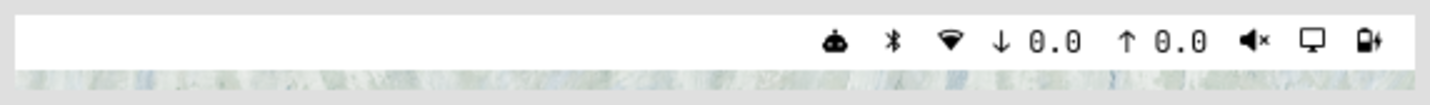
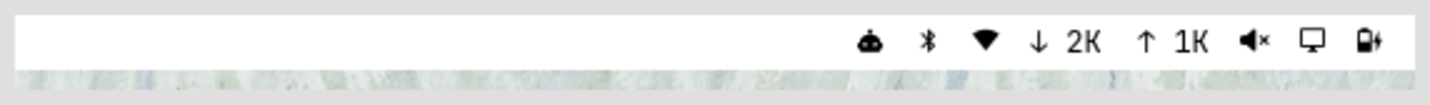
netspeed: adaptive KB/s ↔ MB/s units
%.1f MB/s rounded everyday traffic (an API client, a package sync) to 0.0.
fmt() now picks the unit per direction: 0 below 1 KiB/s, <n>K below 1 MiB/s,
<n.n>M above. Refresh screenshots and docs to match.

Changed region(s): [[0.5538, 0.2571, 0.8615, 0.5143]]

diff --git a/netspeed/README.md b/netspeed/README.md
@@ -1,12 +1,16 @@
 # netspeed
 
-Live network throughput in the **Omarchy bar**: download and upload rate in
-**MB/s**, a down arrow for in, an up arrow for out. **No daemon**, no polling
-service — just a shell script the bar already knows how to call.
+Live network throughput in the **Omarchy bar**: download and upload rate with a
+down arrow for in, an up arrow for out. The **unit adapts** — `KB/s` for
+everyday traffic, `MB/s` once a transfer really gets going — so a slow download
+never just reads `0.0`. **No daemon**, no polling service — just a shell script
+the bar already knows how to call.
 
 <img src="screenshots/idle.png" alt="netspeed widget in the Omarchy bar, idle" width="100%">
 
-<img src="screenshots/load.png" alt="netspeed widget in the Omarchy bar, during a download" width="100%">
+<img src="screenshots/slow.png" alt="netspeed widget in the Omarchy bar, light traffic in KB/s" width="100%">
+
+<img src="screenshots/load.png" alt="netspeed widget in the Omarchy bar, during a download in MB/s" width="100%">
 
 The stock `omarchy.network` widget only shows a Wi-Fi/Ethernet icon; the live
 rates it computes exist solely inside its pop-up, and only while that pop-up is
@@ -19,7 +23,9 @@ open. `netspeed` puts the rate in the bar itself, all the time.
 - Computes the rate against the **previous sample**, over the real elapsed
   time (a state file under `$XDG_RUNTIME_DIR`), so it stays accurate even if
   the bar's poll interval drifts.
-- Prints Waybar-style JSON: `{"text": "↓ 1.2  ↑ 0.1", "tooltip": "wlo1   ↓ 1.20 MB/s   ↑ 0.05 MB/s"}`.
+- Picks the unit per direction: `0` below 1 KiB/s, `<n>K` (KB/s) below 1 MiB/s,
+  `<n.n>M` (MB/s) above.
+- Prints Waybar-style JSON: `{"text": "↓ 320K  ↑ 12K", "tooltip": "wlo1   ↓ 320K   ↑ 12K"}`.
 - Offline (no default route): shows `↓ -- ↑ --`.
 - Click the widget → opens the Omarchy network status.
 
@@ -71,9 +77,10 @@ as Waybar JSON, and renders `text` (plus `tooltip`). The entry in `shell.json`:
 }
 ```
 
-Rate math (see `bin/netspeed`): `rate = max(0, (bytes_now - bytes_prev) / dt)`,
-then `/ 1048576` for MB/s. The `max(0, …)` absorbs a counter reset or an
-interface switch; the first sample after either shows `0.0` for one tick.
+Rate math (see `bin/netspeed`): `rate = max(0, (bytes_now - bytes_prev) / dt)`
+bytes/s, then formatted by the `fmt()` awk function (KiB / MiB / GiB
+thresholds). The `max(0, …)` absorbs a counter reset or an interface switch;
+the first sample after either shows `0` for one tick.
 
 ## Configuration
 
@@ -83,8 +90,9 @@ All knobs are one-line edits; the bar reloads on save.
 | --- | --- | --- |
 | Faster/slower updates | `shell.json` entry | `"interval": 1` (min 1s) |
 | Different arrows | `bin/netspeed` | swap `↓` / `↑` for Nerd Font `` / `` (the glyphs the network pop-up uses) |
-| Decimal MB (10⁶) instead of MiB (2²⁰) | `bin/netspeed` | set `mib = 1000000.0` |
-| More/less precision | `bin/netspeed` | `%.1f` in `text`, `%.2f` in `tooltip` |
+| Always MB/s (no KB/s) | `bin/netspeed` | in `fmt()`, drop the `< 1048576` branch and use `%.2f` |
+| Decimal K/M/G (10ⁿ) instead of binary (2ⁿ) | `bin/netspeed` | in `fmt()`, use `1000`, `1000000`, `1000000000` |
+| More/less precision | `bin/netspeed` | change the `%.0f` / `%.1f` in `fmt()` |
 | Move it in the bar | `shell.json` | reorder the entry, or `omarchy bar move netspeed --section right` |
 
 After editing `bin/netspeed`, re-run the installer (or copy it over
@@ -109,12 +117,15 @@ script and the state file.
 
 ## Notes and limitations
 
-- **MB = MiB.** Rates divide by `1048576`, matching Omarchy's own
-  `network/Model.js`. Switch to `1000000` if you prefer decimal megabytes.
+- **K/M/G are binary** (1024-based), matching Omarchy's own `network/Model.js`.
+  `K` is shown without decimals, `M`/`G` with one.
+- **2 s trailing average.** The bar polls every `interval` seconds and shows the
+  mean over that window, so bursty traffic (a package sync, an API client)
+  reads low or `0` between bursts even while it's "active".
 - **Counts everything on the default interface** — LAN, VPN and internet
   traffic all go through the same counters. There is no per-flow breakdown.
 - **One idle tick on interface changes** (Wi-Fi ↔ Ethernet): the state resets
-  and the next sample reads `0.0`.
+  and the next sample reads `0`.
 - Omarchy's `Bar.qml` logs a harmless
   `TypeError: Cannot assign to read-only property "moduleName"` for *any*
   custom command module. It does not affect the widget.
